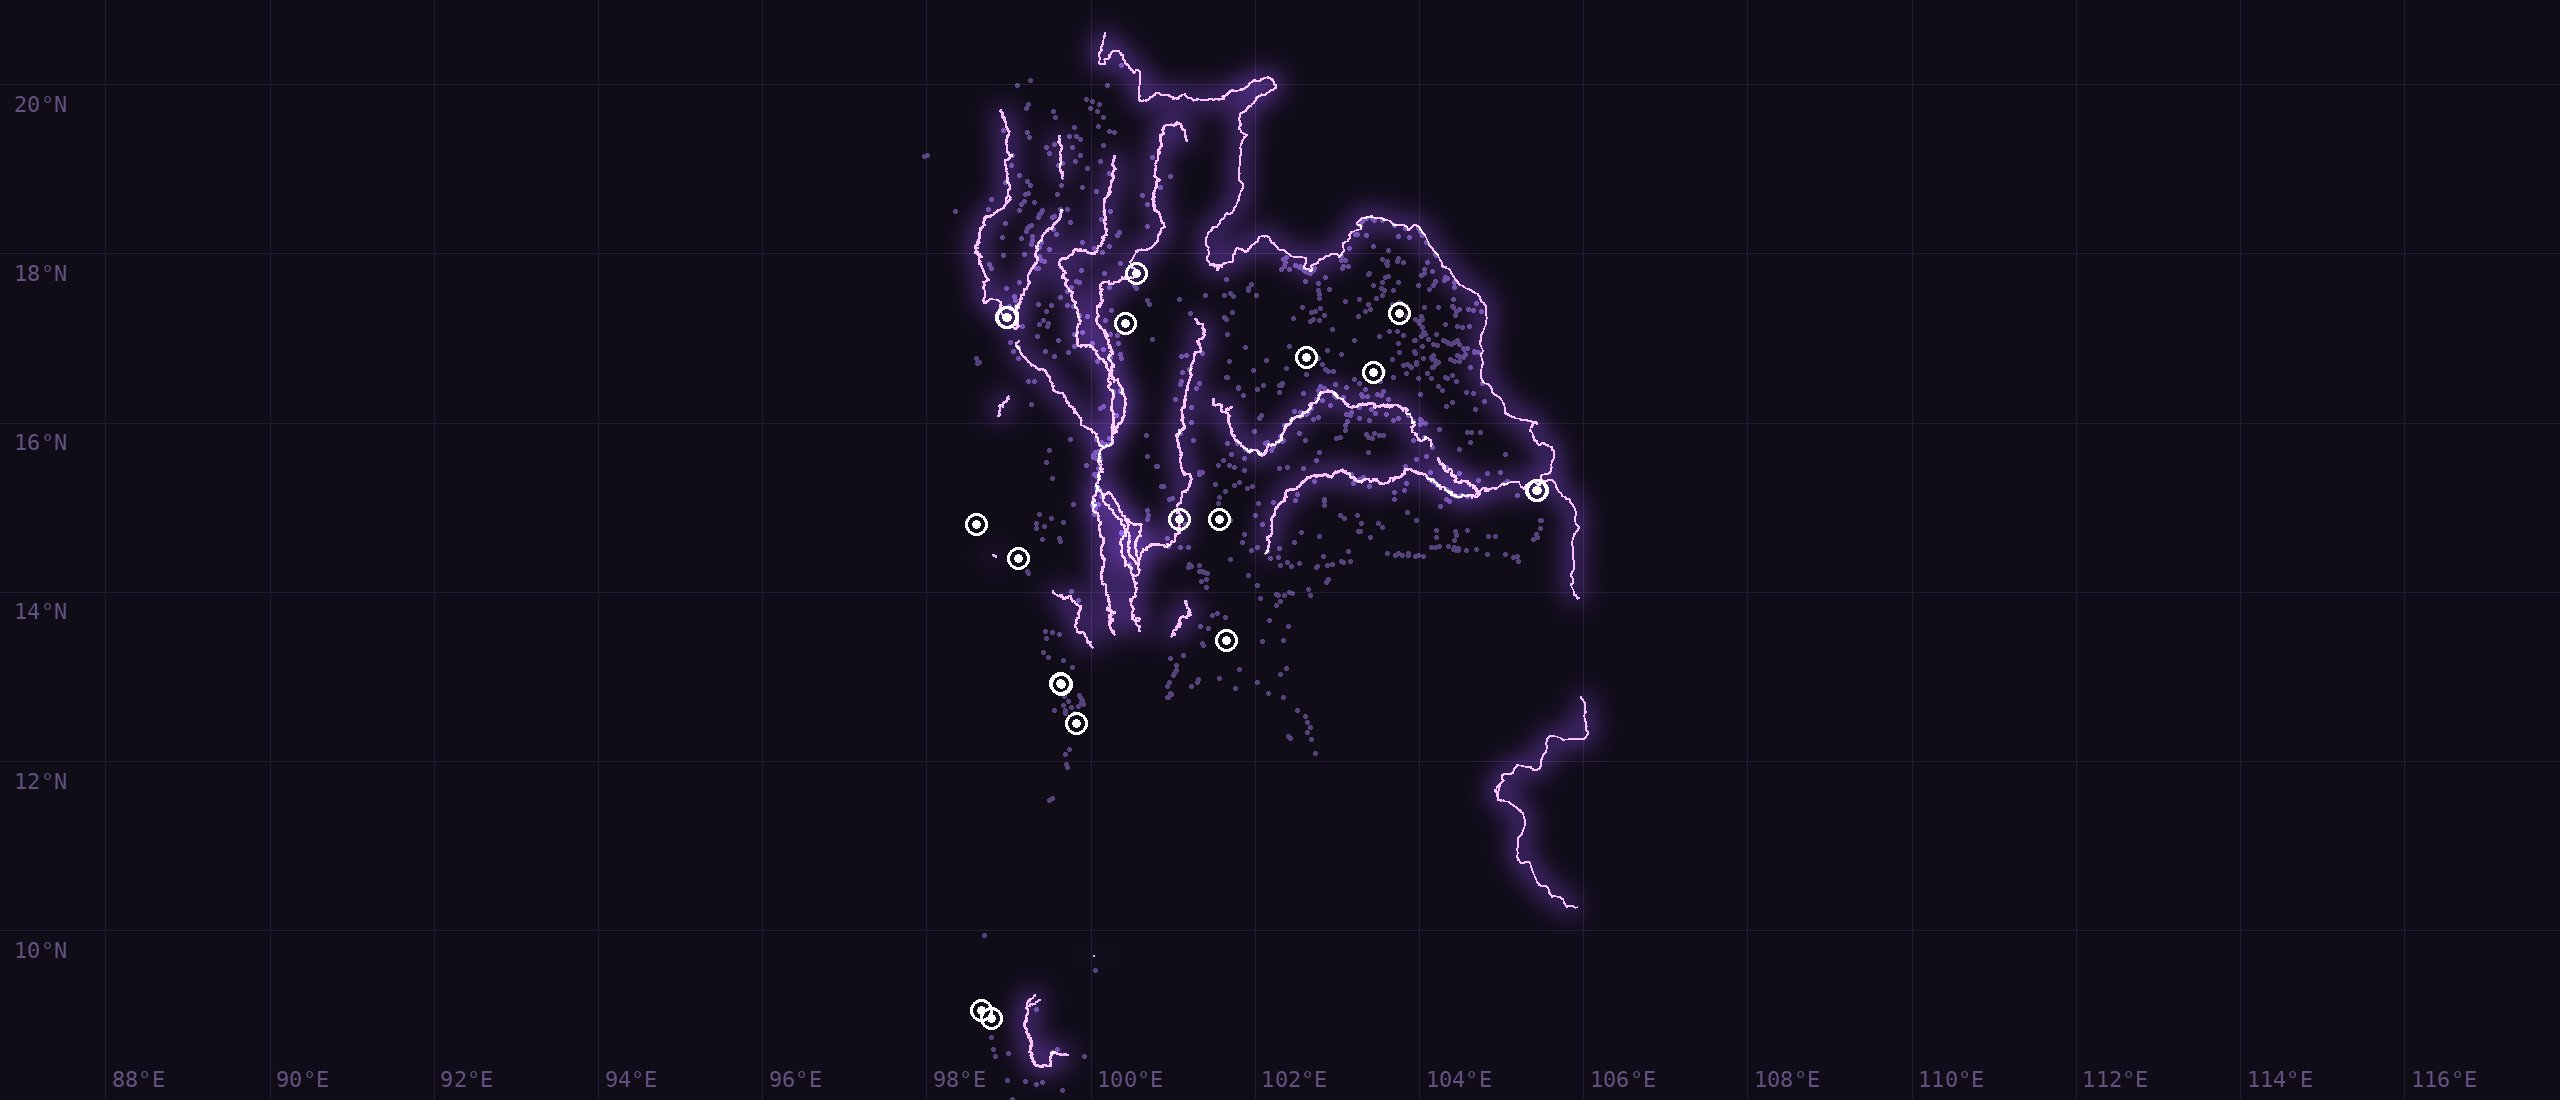
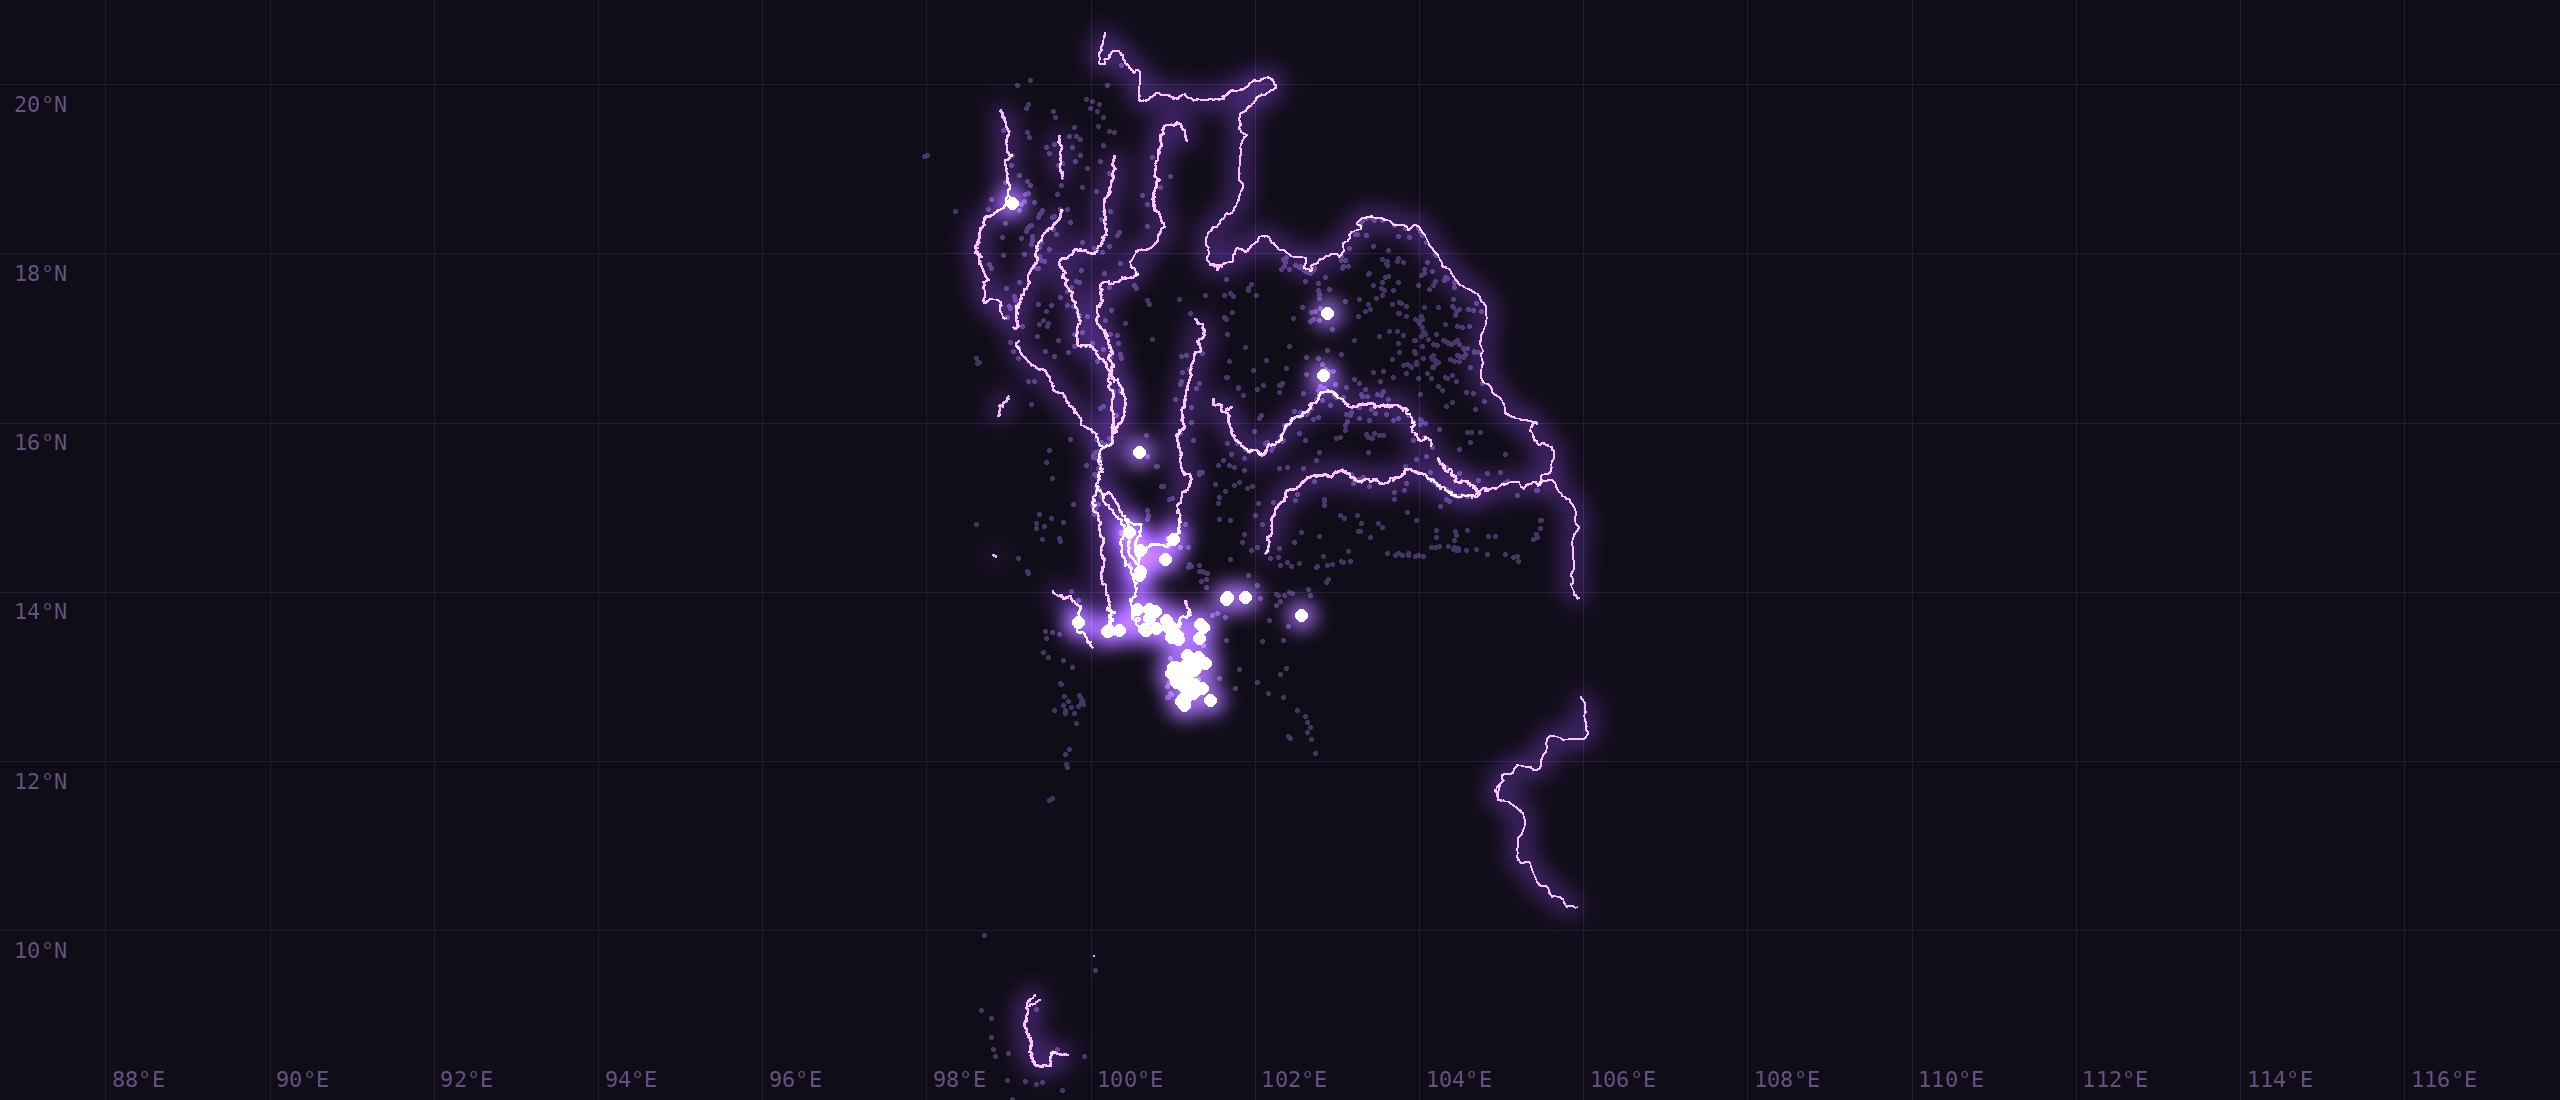
Show industrial estate locations on hero map instead of dams
Claude-Session: https://claude.ai/code/session_01H3bH2N6GZ2F843eaWwxDrr

diff --git a/index.html b/index.html
@@ -89,10 +89,10 @@ html{scroll-behavior:smooth}
     </div>
 
     <figure style="margin:0;width:100%;position:relative;border-radius:20px;overflow:hidden;background:#100c18">
-      <img src="assets/hero-map.jpg" alt="แผนที่แม่น้ำสายหลักและเขื่อนขนาดใหญ่ของประเทศไทย" style="display:block;width:100%;height:540px;object-fit:cover;object-position:center">
+      <img src="assets/hero-map.jpg?v=20261105-estates" alt="แผนที่แม่น้ำสายหลักและตำแหน่งนิคมอุตสาหกรรมของประเทศไทย" style="display:block;width:100%;height:540px;object-fit:cover;object-position:center">
       <figcaption style="position:absolute;left:20px;bottom:20px;display:flex;gap:8px;flex-wrap:wrap">
         <span style="display:flex;align-items:center;gap:8px;background:rgba(255,255,255,.92);color:#0e1110;border-radius:999px;padding:7px 14px;font-size:13px;font-weight:500"><span style="width:18px;height:3px;border-radius:2px;background:#6b3fa0;display:inline-block"></span>แม่น้ำสายหลัก</span>
-        <span style="display:flex;align-items:center;gap:8px;background:rgba(255,255,255,.92);color:#0e1110;border-radius:999px;padding:7px 14px;font-size:13px;font-weight:500"><span style="width:11px;height:11px;border:2.5px solid #0e1110;border-radius:50%;display:inline-block;box-sizing:border-box"></span>เขื่อนขนาดใหญ่</span>
+        <span style="display:flex;align-items:center;gap:8px;background:rgba(255,255,255,.92);color:#0e1110;border-radius:999px;padding:7px 14px;font-size:13px;font-weight:500"><span style="width:9px;height:9px;background:#6b3fa0;box-shadow:0 0 0 3px #e2d4f5;border-radius:50%;display:inline-block"></span>นิคมอุตสาหกรรม</span>
       </figcaption>
       <span style="position:absolute;right:20px;top:20px;background:rgba(14,17,16,.6);color:#e2cfff;border:1px solid rgba(200,165,255,.3);border-radius:999px;padding:6px 12px;font:500 12px 'IBM Plex Mono',monospace;letter-spacing:.06em">TH · 8°N–21°N</span>
     </figure>
@@ -172,7 +172,7 @@ html{scroll-behavior:smooth}
 
   <footer style="background:#0e1110;color:#b9c0bc;border-radius:28px;padding:28px 40px;box-sizing:border-box;display:flex;flex-wrap:wrap;gap:12px 32px;align-items:center;justify-content:space-between;font-size:14px">
     <span style="display:flex;align-items:center;gap:12px;color:#ffffff;font-weight:500"><img src="assets/ieat-logo-white.png" alt="" style="height:34px;width:auto">ศูนย์เฝ้าระวังสิ่งแวดล้อมและความปลอดภัย (EMCC) · กนอ.</span>
-    <span>ภาพแผนที่: แม่น้ำสายหลักและเขื่อนขนาดใหญ่ของประเทศไทย</span>
+    <span>ภาพแผนที่: แม่น้ำสายหลักและตำแหน่งนิคมอุตสาหกรรม 80 แห่ง</span>
   </footer>
 </div>
 <script>

diff --git a/README.md b/README.md
@@ -3,7 +3,7 @@
 หน้าหลักของเว็บไซต์ `https://nawakonnakhonchai-wq.github.io/` รวมลิงก์ไปยัง dashboard ต่างๆ ของ EMCC กนอ.
 
 - `index.html` — หน้า Main (Hero + เมนู "ข้อมูล" / "Risk map" + การ์ดระบบข้อมูล)
-- `assets/hero-map.jpg` — ภาพแผนที่แม่น้ำสายหลักและเขื่อนขนาดใหญ่ (สร้างจาก `water_flow_major.geojson` และข้อมูลเขื่อน ThaiWater)
+- `assets/hero-map.jpg` — ภาพแผนที่แม่น้ำสายหลักและตำแหน่งนิคมอุตสาหกรรม (สร้างจาก `water_flow_major.geojson` และพิกัดนิคมฯ จาก e-PP)
 - `assets/ieat-logo-white.png` — ตรา กนอ. สีขาว
 
 ## เพิ่ม/แก้ลิงก์
